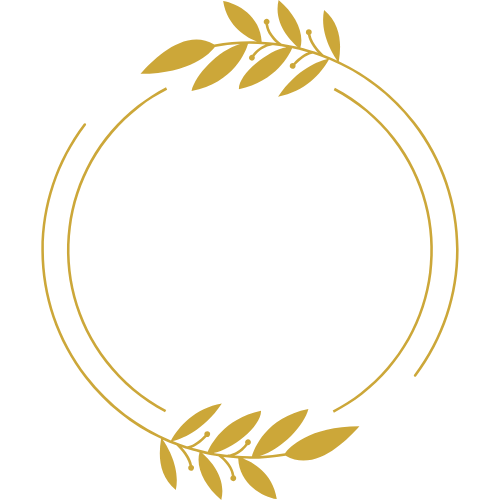
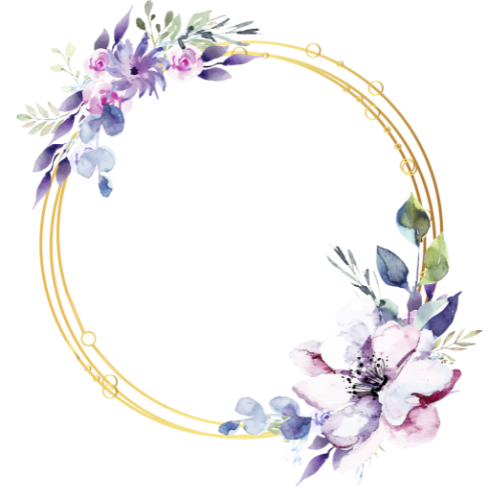
menyelesaikan Tampilan Home

Changed region(s): [[0.03, 0.0, 0.96, 1.0], [0.72, 0.93, 0.75, 0.96]]

diff --git a/index.html b/index.html
@@ -9,6 +9,13 @@
     <link href="https://cdn.jsdelivr.net/npm/bootstrap@5.2.3/dist/css/bootstrap.min.css" rel="stylesheet"
         integrity="sha384-rbsA2VBKQhggwzxH7pPCaAqO46MgnOM80zW1RWuH61DGLwZJEdK2Kadq2F9CUG65" crossorigin="anonymous">
     <script src="https://unpkg.com/feather-icons"></script>
+    <script src="https://code.jquery.com/jquery-3.6.4.min.js"></script>
+    <link rel="preconnect" href="https://fonts.googleapis.com">
+    <link rel="preconnect" href="https://fonts.gstatic.com" crossorigin>
+    <link href="https://fonts.googleapis.com/css2?family=Pacifico&display=swap" rel="stylesheet">
+    <link rel="preconnect" href="https://fonts.googleapis.com">
+    <link rel="preconnect" href="https://fonts.gstatic.com" crossorigin>
+    <link href="https://fonts.googleapis.com/css2?family=Great+Vibes&display=swap" rel="stylesheet">
     <title>Title</title>
 </head>
 
@@ -16,21 +23,44 @@
 
     <div class="container-md px-0">
         <section id="home">
-            <div style="padding-top: 20vh;">
-                <strong style="position: absolute; padding-top: 20vh;" class="d-flex justify-content-center">Gian Sonia <br> & <br> Puput Dwi</strong>
-                <img src="img/badge.png" class="rounded mx-auto img-fluid d-block" alt="...">
+            <h2 class="fw-bold d-block">The Weeding</h2>
+            <div class="bunga pt-4">
+                <h1 id="text" class="d-block text-center position-absolute top-50 start-50 translate-middle">Gian Sonia <br> & <br> Puput Dwi</h1>
+                <div class="bg">
+                    <img src="img/badge.png"
+                        class="rounded mx-auto bg img-fluid d-block position-absolute top-100 start-50 translate-middle"
+                        alt="...">
+                </div>
             </div>
         </section>
-        <nav class="navbar fixed-bottom mb-3 mx-4 rounded" style="background-color: rgba(255, 255, 255, 0.6);">
+        <nav class="navbar fixed-bottom mb-3 mx-2 rounded" style="background-color: rgba(255, 255, 255, 0.6);">
             <div class="container-fluid justify-content-evenly">
                 <a class="btn btn-outline-dark rounded" href="#"><i data-feather="home"></i></a>
                 <a class="btn btn-outline-dark rounded" href="#"><i data-feather="book-open"></i></a>
                 <a class="btn btn-outline-dark rounded" href="#"><i data-feather="calendar"></i></a>
                 <a class="btn btn-outline-dark rounded" href="#"><i data-feather="map-pin"></i></a>
                 <a class="btn btn-outline-dark rounded" href="#"><i data-feather="list"></i></a>
+                <a class="btn btn-outline-dark rounded" href="#"><i data-feather="list"></i></a>
             </div>
         </nav>
     </div>
+
+    <script>
+        $(document).ready(function () {
+            $(".bunga .bg").addClass("muncul")
+            $(".bunga img").removeClass("top-100")
+            $(".bunga img").addClass("top-50")
+            $("#home h2").addClass("muncul")
+            $("#text").css({
+                'animation': 'muncul 3s ease',
+                'opacity':'100%'
+            })
+        })
+        $(window).scroll(function () {
+            let wScroll = $(this).scrollTop();
+            console.log(wScroll)
+        })
+    </script>
 
     <script>
         feather.replace()

diff --git a/css/style.css b/css/style.css
@@ -1,5 +1,44 @@
 #home {
-    background-color: #F8EFBA;
+    background-image: url("/img/bg.png");
+    background-size: cover;
     height: 100vh;
     margin: 0;
 }
+  @import url('https://fonts.googleapis.com/css2?family=Pacifico&display=swap');
+
+#home h2{
+    font-family: 'Pacifico', cursive;
+    font-size: 3em;
+    padding-top: 150px;
+    text-align: center;
+    color: #3B486D;
+    opacity: 0;
+    transform: translate(0, -40px);
+    transition: 0.9s;
+
+}
+#home h2.muncul{
+  opacity: 100%;
+    transform: translate(0, 0);
+}
+
+#text{
+  font-size: 2.3em; z-index: 1;width: 100%; color: #3B486D; font-family: 'Great Vibes', cursive;
+  opacity: 0;
+}
+
+.bunga .bg{
+  opacity: 0;
+  transition: 1.7s;
+}
+.bunga .bg.muncul{
+  opacity: 100%;
+}
+
+@keyframes muncul {
+  0% {opacity: 0;}
+  50% {opacity: 0;}
+  100% {opacity:100%}
+}
+
+
